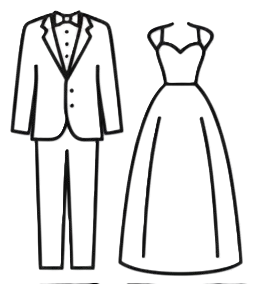
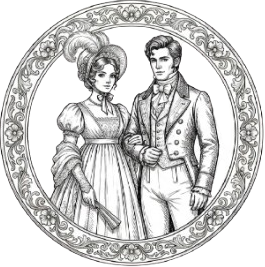
Editando e gerando guia para convidados e estilização

diff --git a/index.html b/index.html
@@ -29,7 +29,7 @@
         </p>
         <span class="date reveal delay-2">
             28 • Novembro • 2026
-        </span>
+        </span> 
 
         <div class="countdown reveal delay-3">
             <div class="time-box">
@@ -95,13 +95,23 @@
             <h2 class="reveal">Cerimônia & Recepção</h2>
 
             <div class="local-grid">
-
+                <!-- LADO DIREITO -->
+                <div class="local-right reveal delay-2">
+                    <div class="info-item">
+                        <h3>Espaço</h3>
+                        <p>Sítio Casa das Pedras</p>
+                    </div>
+                    
+                    <img 
+                        class="local-image" 
+                        src="local-photo.jpeg" 
+                        alt="Foto do local do casamento"
+                    >
+                </div>
                 <!-- LADO ESQUERDO -->
                 <div class="local-left">
-
                     <!-- Infos lado a lado -->
                     <div class="local-info reveal delay-1">
-
                         <div class="info-item">
                             <h3>Endereço</h3>
                             <p>
@@ -110,9 +120,7 @@
                                 Rio de Janeiro - RJ
                             </p>
                         </div>
-
                     </div>
-
                     <!-- MAPA -->
                     <div class="map-container reveal delay-2">
                         <iframe 
@@ -132,25 +140,9 @@
                                 id="origin" 
                                 placeholder="Digite seu endereço..."
                             >
-                            <button onclick="tracarRota()">Ver rota</button>
+                            <button onclick="tracarRota()">Buscar rota</button>
                         </div>
                     </div>
-
-
-                </div>
-
-                <!-- LADO DIREITO -->
-                <div class="local-right reveal delay-2">
-                    <div class="info-item">
-                        <h3>Espaço</h3>
-                        <p>Sítio Casa das Pedras</p>
-                    </div>
-                    
-                    <img 
-                        class="local-image" 
-                        src="local-photo.jpeg" 
-                        alt="Foto do local do casamento"
-                    >
                 </div>
             </div>
         </div>
@@ -160,6 +152,48 @@
         </button>
     </section>
     
+    <!-- Guia do Convidado-->
+    <section class="manual-classico">
+        <div class="container">
+            <h2 class="reveal">Guia do Convidado</h2>
+            
+            <div class="lista-ilustrada">
+
+                <div class="item-manual reveal delay-1">
+                    <div class="imagem-icone">
+                        <img src="time.png" alt="Ícone Relógio"> </div>
+                    <div class="texto-manual">
+                        <h3>Nosso grande momento começa às 15:00h!</h3>
+                        <p>Chegue <strong>30 minutos</strong> antes para se acomodar com tranquilidade e aproveitar cada detalhe preparado com carinho.</p>
+                        <p>Recomendamos que saiam com antecedência, pois a região pode apresentar <strong>trânsito</strong> em determinados horários. Utilize o <strong>mapa</strong> disponível neste site para facilitar sua rota.</p>
+                    </div>
+                </div>
+                
+                <div class="item-manual reveal delay-1">
+                    <div class="imagem-icone">
+                        <img src="dressCode.png" alt="Ícone Traje"> </div>
+                    <div class="texto-manual">
+                        <h3>Traje Esporte Fino</h3>
+                        <p>Nosso casamento será ao ar livre, em meio à natureza. Sugerimos traje esporte fino e calçados confortáveis para melhor aproveitarem a celebração.</p>
+                    </div>
+                </div>
+                
+                <div class="item-manual reveal delay-1">
+                    <div class="imagem-icone">
+                        <img src="car.png" alt="Ícone Carro"> </div>
+                    <div class="texto-manual">
+                        <h3>Estacionamento</h3>
+                        <p>O local conta com estacionamento no próprio espaço para maior comodidade dos convidados.</p>
+                    </div>
+                </div>
+
+            </div>
+        </div>
+        <button class="scroll-indicator reveal delay-3" data-scroll="next" aria-label="Descer">
+            <span>DESCER</span>↓
+        </button>
+    </section>
+
     <!-- Presentes -->
     <section class="gifts">
         <div class="container">
@@ -179,46 +213,6 @@
                 <button class="gift-button" onclick="copiarPix()" style="margin-top: 10px; font-size: 0.8rem;">
                     Copiar código Pix
                 </button>
-            </div>
-        </div>
-        <button class="scroll-indicator reveal delay-3" data-scroll="next" aria-label="Descer">
-            <span>DESCER</span>↓
-        </button>
-    </section>
-
-<section class="manual-classico">
-        <div class="container">
-            <h2 class="reveal">Guia do Convidado</h2>
-            
-            <div class="lista-ilustrada">
-                
-                <div class="item-manual reveal delay-1">
-                    <div class="imagem-icone">
-                        <img src="dressCode.png" alt="Ícone Traje"> </div>
-                    <div class="texto-manual">
-                        <h3>Traje Esporte Fino</h3>
-                        <p>Sugerimos tons suaves. Para elas, vestidos fluidos; para eles, camisa social e calça de sarja ou social.</p>
-                    </div>
-                </div>
-
-                <div class="item-manual reveal delay-2">
-                    <div class="imagem-icone">
-                        <img src="grama.png" alt="Ícone Sapato"> </div>
-                    <div class="texto-manual">
-                        <h3>Dica para as Convidadas</h3>
-                        <p>A cerimônia será em área externa. Recomendamos saltos mais largos (blocado ou anabela) para sua comodidade no gramado.</p>
-                    </div>
-                </div>
-
-                <div class="item-manual reveal delay-3">
-                    <div class="imagem-icone">
-                        <img src="relogio.png" alt="Ícone Horário"> </div>
-                    <div class="texto-manual">
-                        <h3>Horário</h3>
-                        <p>Nossa celebração começa às 14:00h. Sua pontualidade é um carinho especial com os noivos.</p>
-                    </div>
-                </div>
-
             </div>
         </div>
         <button class="scroll-indicator reveal delay-3" data-scroll="next" aria-label="Descer">

diff --git a/style.css b/style.css
@@ -1,3 +1,6 @@
+/* =========================
+    PADRÃO
+========================= */
 body {
     margin: 0;
     background-color: #f3f3ec;
@@ -18,7 +21,9 @@ h2 {
 }
 
 
-/* CARTA */
+/* =========================
+    CARTA DE CONVITE
+========================= */
 
 .cover {
     position: fixed;
@@ -60,7 +65,10 @@ h2 {
     cursor: pointer;
 }
 
-/* TELA PRINCIPAL */
+
+/* =========================
+    HOME
+========================= */
 .top-image {
     display: flex;
     justify-content: center;
@@ -200,7 +208,9 @@ h2 {
 }
 
 
-/*  Seção Nossa História */
+/* =========================
+    NOSSA HISTÓRIA
+========================= */
 .story {
     background-color: #ececec;
     padding: 50px 20px;
@@ -239,7 +249,10 @@ h2 {
     font-size: 1rem;
     color: #9fa99b;
 }
-/* Cerimonial e Recepção */
+
+/* =========================
+    CERIMONIAL & RECEPÇÃO
+========================= */
 
 .local {
     padding: 0px 20px;
@@ -333,57 +346,11 @@ h2 {
 }
 
 /* =========================
-    GIFTS
-========================= */
-
-.gifts {
-    padding: 0px 20px;
-    text-align: center;
-    background: #ececec;
-}
-
-.gifts h2 {
-    font-size: 2.2rem;
-    margin-bottom: 20px;
-    font-family: 'Playfair Display', serif;
-}
-
-.gifts p {
-    max-width: 600px;
-    margin: 0 auto 30px auto;
-    color: #666;
-}
-
-.gift-button {
-    padding: 14px 35px;
-    border-radius: 30px;
-    border: 1px solid #c8a97e;
-    background: transparent;
-    color: #c8a97e;
-    font-size: 1rem;
-    cursor: pointer;
-    transition: 0.3s ease;
-}
-
-.gift-button:hover {
-    background: #c8a97e;
-    color: white;
-}
-
-#qrcode-container img {
-    border: 10px solid white;
-    box-shadow: 0 4px 10px rgba(0,0,0,0.1);
-    border-radius: 10px;
-    margin: 15px 0;
-    max-width: 200px;
-}
-
-/* =========================
-    DRESS CODE
+    GUIA DO CONVIDADO
 ========================= */
 .manual-classico {
     padding: 0px 20px;
-    background-color: #f3f3ec;
+    background-color: #ececec;
 }
 
 .lista-ilustrada {
@@ -435,16 +402,51 @@ h2 {
     line-height: 1.5;
 }
 
-/* Responsividade para celular */
-@media (max-width: 600px) {
-    .item-manual {
-        flex-direction: column; /* No celular, a imagem fica em cima do texto */
-        text-align: center;
-        gap: 15px;
-    }
-    .texto-manual {
-        text-align: center;
-    }
+
+/* =========================
+    GIFTS
+========================= */
+
+.gifts {
+    padding: 0px 20px;
+    text-align: center;
+    background: #f3f3ec;
+}
+
+.gifts h2 {
+    font-size: 2.2rem;
+    margin-bottom: 20px;
+    font-family: 'Playfair Display', serif;
+}
+
+.gifts p {
+    max-width: 600px;
+    margin: 0 auto 30px auto;
+    color: #666;
+}
+
+.gift-button {
+    padding: 14px 35px;
+    border-radius: 30px;
+    border: 1px solid #c8a97e;
+    background: transparent;
+    color: #c8a97e;
+    font-size: 1rem;
+    cursor: pointer;
+    transition: 0.3s ease;
+}
+
+.gift-button:hover {
+    background: #c8a97e;
+    color: white;
+}
+
+#qrcode-container img {
+    border: 10px solid white;
+    box-shadow: 0 4px 10px rgba(0,0,0,0.1);
+    border-radius: 10px;
+    margin: 15px 0;
+    max-width: 200px;
 }
 
 
@@ -631,6 +633,15 @@ h2 {
 
     .route-box button {
         width: 100%;
+    }
+
+    .item-manual {
+        flex-direction: column; /* No celular, a imagem fica em cima do texto */
+        text-align: center;
+        gap: 15px;
+    }
+    .texto-manual {
+        text-align: center;
     }
 
     .rsvp,
